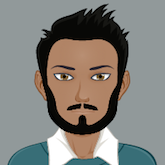
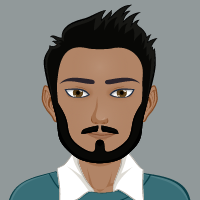
Still playing with profile pic

diff --git a/_sass/_variables.scss b/_sass/_variables.scss
@@ -33,7 +33,7 @@ $h4-color: $gray;
 
 // Your avatar
 
-$avatar: "https://raw.githubusercontent.com/Gordonjo/Jekyll-Mono/gh-pages/images/myAvatar2.png";
+$avatar: "https://raw.githubusercontent.com/Gordonjo/Jekyll-Mono/gh-pages/images/myAvatar.png";
 
 
 // Font stacks
